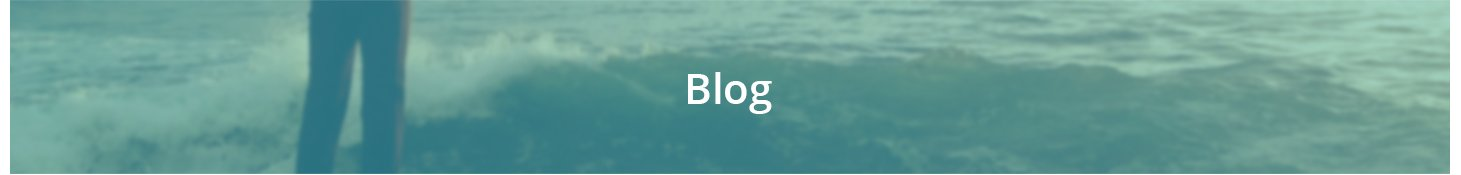
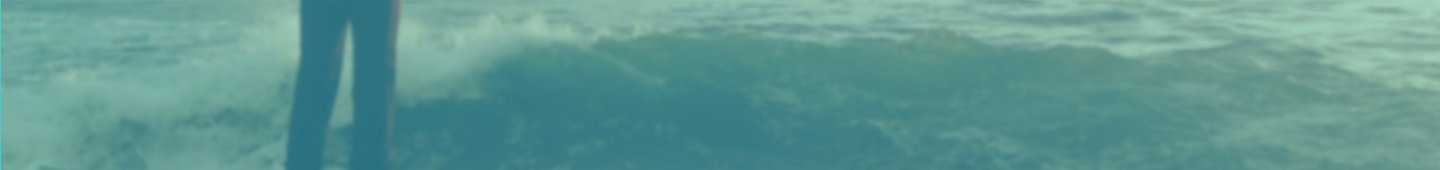
Responsive blog

diff --git a/source/stylesheets/module/_box-result.scss b/source/stylesheets/module/_box-result.scss
@@ -29,8 +29,7 @@
   @include breakpoint(medio){
     display: block;
     border:1px solid #ebebeb;
-    width: 92%;
-    padding: 10px;
+    width: 96%;
   }
 }
 
@@ -38,6 +37,10 @@
   font-size: 2.4em;
   margin-top: 3px;
   color: $gray;
+
+  @include breakpoint(medio){
+    text-align: center;
+  }
 }
 
 .box2 .content .box-img,.text{
@@ -100,14 +103,20 @@
   border-bottom:1px solid rgb(235, 235, 235);
   margin-top: 20px;
 
-    @include breakpoint(medio){
-      border-bottom:none;
+    @include breakpoint(mini){
+      background: rgb(247, 247, 247);
     }
 
   div{
     @extend %style-inline;
     font-size: 1.5em;
     color: $gray;
+
+    @include breakpoint(mini){
+      margin-bottom: 8px;
+      display: block;
+      width: 100%!important;
+    }
   }
 
   .by{
@@ -116,6 +125,10 @@
     span{
       color:$pink;
       margin-right: 12%;
+
+      @include breakpoint(mini){
+        margin-right: 3%;
+      }
     }
   }
 
@@ -133,13 +146,19 @@
       margin-right: 6%;
       vertical-align: middle;
       text-decoration: none;
+
+      @include breakpoint(mini){
+        margin-right: 3%;
+      }
     }
   }
 }
 
+
+
 /* Blog expandido */
 
-#box-left-expanded{
+.is-box-left-expanded{
   .box-result{
     .box2{
 
@@ -346,7 +365,8 @@
   }
 }
 
-#box-left-expanded .box-result .box2 section#leave-comment{
+
+.is-box-left-expanded .box-result .box2 section#leave-comment{
   .algo{
     margin-top: 20px;
   }

diff --git a/source/stylesheets/module/_pagination.scss b/source/stylesheets/module/_pagination.scss
@@ -11,6 +11,10 @@ section#pagination{
       vertical-align: middle;
       margin: 0 5px;
 
+      @include breakpoint(micro){
+        margin: 0 1px;
+      }
+
       a{
         width: 50px;
         height: 50px;
@@ -20,6 +24,19 @@ section#pagination{
         font-size: 2.5em;
         display: block;
         line-height: 50px;
+
+        @include breakpoint(medio){
+          width: 35px;
+          height: 35px;
+          line-height: 35px;
+        }
+
+        @include breakpoint(micro){
+          width: 27px;
+          height: 27px;
+          font-size: 1.8em;
+          line-height: 28px;
+        }
       }
     }
 

diff --git a/source/stylesheets/module/popular-post.scss b/source/stylesheets/module/popular-post.scss
@@ -3,6 +3,10 @@ section#popular-post{
   color:$gray;
   overflow: hidden;
 
+  @include breakpoint(mini){
+    text-align: center;
+  }
+
   h1.title-blog{
     margin-bottom: 25px;
   }
@@ -32,6 +36,10 @@ section#popular-post{
     span.fecha{
       float: left;
       font-size: 1.5em;
+
+      @include breakpoint(mini){
+        float:none;
+      }
     }
 
     a{
@@ -43,6 +51,11 @@ section#popular-post{
       font-size: 1.5em;
       text-decoration: none;
       float: right;
+
+      @include breakpoint(mini){
+        margin: 0 30px;
+        float:none;
+      }
     }
   }
 }

diff --git a/source/stylesheets/module/_banner-blog.scss b/source/stylesheets/module/_banner-blog.scss
@@ -1,8 +1,32 @@
 section#banner-blog{
   width: 100%;
+  min-height: 90px;
+  position: relative;
+
+  @include breakpoint(mini){
+    background:url('../../images/banner-blog.jpg') no-repeat center center;
+    background-position: -260px;
+  }
 
   img{
     display: block;
     width: 100%;
+
+    @include breakpoint(mini){
+      display: none;
+    }
+  }
+
+  h1.title-blog2{
+    position: absolute;
+    font-size: 4em;
+    color:$blanco;
+    font-family: $open;
+    text-align: center;
+    margin-top:-35px;
+    margin-left:-35px;
+    top: 55%;
+    left: 50%;
+
   }
 }

diff --git a/source/stylesheets/module/_newsletter.scss b/source/stylesheets/module/_newsletter.scss
@@ -1,5 +1,9 @@
 section#newsletter{
   margin-top: 20px;
+
+  @include breakpoint(mini){
+    text-align: center;
+  }
 }
 
 section#newsletter .box-input{
@@ -32,6 +36,10 @@ section#newsletter .box-input{
 
 .box-input{
   width: 277px!important;
+
+  @include breakpoint(mini){
+    margin:0 auto;
+  }
 }
 
 
@@ -65,6 +73,10 @@ section#newsletter form{
     padding: 10px 0;
     text-align: center;
     width: 170px;
+
+    @include breakpoint(mini){
+      margin:0 auto;
+    }
   }
 }
 

diff --git a/source/stylesheets/module/_tags.scss b/source/stylesheets/module/_tags.scss
@@ -1,6 +1,10 @@
 section#tags{
   margin-top: 45px;
 
+  @include breakpoint(mini){
+    text-align: center;
+  }
+
   h1.title-blog{
     margin-bottom: 20px;
   }
@@ -8,6 +12,10 @@ section#tags{
   ul{
     list-style: none;
     text-align: left;
+
+    @include breakpoint(mini){
+      text-align: center;
+    }
 
     li{
       @extend %style-inline;

diff --git a/source/stylesheets/state/_state.scss b/source/stylesheets/state/_state.scss
@@ -1,7 +1,8 @@
 .is-active{
   background:$hover-menu;
   border-bottom: 3px solid $border-bottom;
-  color:$border-bottom;
+
+  a{color:$verde;}
 
   @include breakpoint(mini){
     border-bottom: 1px solid rgb(223, 223, 223);

diff --git a/source/stylesheets/module/_recent-post.scss b/source/stylesheets/module/_recent-post.scss
@@ -2,6 +2,10 @@ section#recent-post{
   clear: both;
   margin-top: 50px;
 
+  @include breakpoint(mini){
+    text-align: center;
+  }
+
   h1.title-blog{
     margin-bottom: 20px;
   }

diff --git a/source/stylesheets/module/_categories.scss b/source/stylesheets/module/_categories.scss
@@ -1,4 +1,9 @@
 section#categories{
+
+  @include breakpoint(mini){
+    text-align: center;
+  }
+
   h1.title-blog{
     margin-top: 40px;
   }

diff --git a/source/stylesheets/module/_box-right.scss b/source/stylesheets/module/_box-right.scss
@@ -7,5 +7,6 @@ section#box-right{
 
   @include breakpoint(mini) {
     width: 100%;
+    margin-left: 0;
   }
 }
